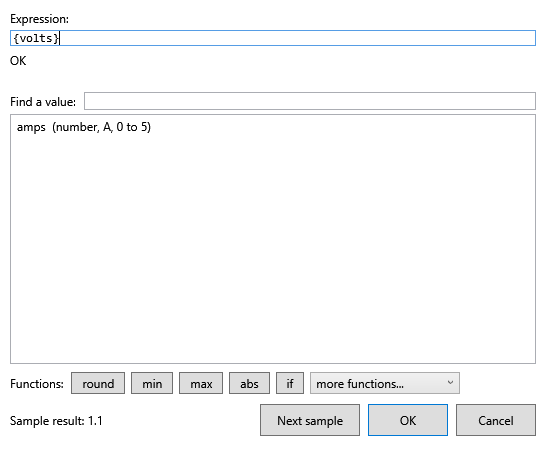
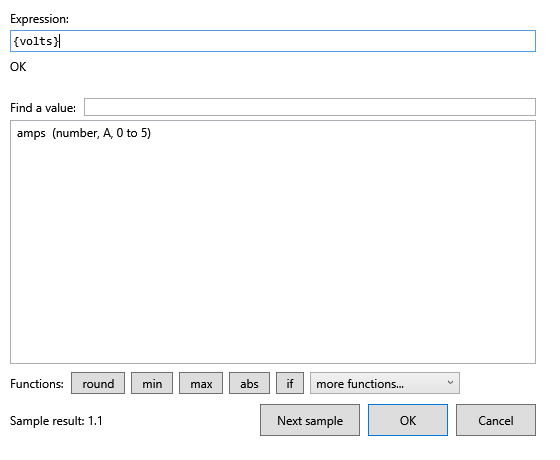
Review the expression picker layout in all modes and give its expression box a usable height

Changed region(s): [[0.0, 0.213, 0.9714, 0.3043], [0.0, 0.0609, 0.9411, 0.1522]]

diff --git a/src/Applications/OoBDev.DevTerm.Wpf/ExpressionPickerWindow.xaml b/src/Applications/OoBDev.DevTerm.Wpf/ExpressionPickerWindow.xaml
@@ -14,7 +14,7 @@
             <RowDefinition Height="Auto" />
         </Grid.RowDefinitions>
         <TextBlock x:Name="ExpressionLabel" Grid.Row="0" Text="Expression:" />
-        <TextBox x:Name="ExpressionBox" Grid.Row="1" Margin="0,4,0,0" VerticalContentAlignment="Center" FontFamily="Consolas" AcceptsReturn="False" TextChanged="ExpressionBox_TextChanged" />
+        <TextBox x:Name="ExpressionBox" Grid.Row="1" Margin="0,4,0,0" MinHeight="22" VerticalContentAlignment="Center" FontFamily="Consolas" AcceptsReturn="False" TextChanged="ExpressionBox_TextChanged" />
         <TextBlock x:Name="DiagnosticsText" Grid.Row="2" Margin="0,6,0,0" TextWrapping="Wrap" MinHeight="32" />
         <DockPanel Grid.Row="3" Margin="0,8,0,4">
             <TextBlock DockPanel.Dock="Left" Text="Find a value:" VerticalAlignment="Center" Margin="0,0,8,0" />

diff --git a/src/Applications/OoBDev.DevTerm.Wpf.Tests/UiLayoutReviewTests.cs b/src/Applications/OoBDev.DevTerm.Wpf.Tests/UiLayoutReviewTests.cs
@@ -6,6 +6,7 @@ using DevTermApp;
 using Microsoft.VisualStudio.TestTools.UnitTesting;
 using OoBDev.DevTerm.Configuration;
 using OoBDev.DevTerm.DeviceManifests;
+using OoBDev.DevTerm.DeviceManifests.Editing;
 using OoBDev.DevTerm.TestUtilities;
 using OoBDev.DevTerm.Wpf;
 using OoBDev.UiDefinitions.ViewModels;
@@ -124,6 +125,18 @@ public sealed class UiLayoutReviewTests
             },
             900,
             700);
+
+    [TestMethod]
+    [DataRow(BuiltInThemes.LightName, "round({volts} * {amps}, 1)", PickerMode.Expression)]
+    [DataRow(BuiltInThemes.DarkName, "round({volts} * {amps}, 1)", PickerMode.Expression)]
+    [DataRow(BuiltInThemes.LightName, "round({volts} * ", PickerMode.Expression)]
+    [DataRow(BuiltInThemes.DarkName, "round({volts} * ", PickerMode.Expression)]
+    [DataRow(BuiltInThemes.LightName, "round({volts} * 100, 0); {amps}", PickerMode.ExpressionList)]
+    [DataRow(BuiltInThemes.DarkName, "round({volts} * 100, 0); {amps}", PickerMode.ExpressionList)]
+    [DataRow(BuiltInThemes.LightName, "volts:Volts:#FF6600; amps", PickerMode.Channels)]
+    [DataRow(BuiltInThemes.DarkName, "volts:Volts:#FF6600; amps", PickerMode.Channels)]
+    public void ExpressionPickerWindow_Mode_HasNoLayoutProblems(string theme, string text, PickerMode mode) =>
+        Review(theme, () => new ExpressionPickerWindow(new ExpressionPickerViewModel(ExpressionPickerScreenshotTests.Paths, text, seed: 7, mode: mode)), 560, 460);
 
     [TestMethod]
     [DataRow(BuiltInThemes.LightName)]

diff --git a/src/Applications/OoBDev.DevTerm.Wpf.Tests/ExpressionPickerScreenshotTests.cs b/src/Applications/OoBDev.DevTerm.Wpf.Tests/ExpressionPickerScreenshotTests.cs
@@ -11,7 +11,7 @@ namespace OoBDev.DevTerm.Wpf.Tests;
 [TestClass]
 public sealed class ExpressionPickerScreenshotTests
 {
-    private static readonly ValuePath[] _paths =
+    internal static readonly ValuePath[] Paths =
     [
         new("volts", ValuePathType.Number, ValuePathSource.Control, "Voltage", "V", 0, 30),
         new("amps", ValuePathType.Number, ValuePathSource.Control, "Current", "A", 0, 5),
@@ -28,7 +28,7 @@ public sealed class ExpressionPickerScreenshotTests
     [DataRow("wpf-expression-picker-channels", "volts:Volts:#FF6600; amps", PickerMode.Channels, "")]
     public void Window_Mode_IsCaptured(string name, string text, PickerMode mode, string filter) =>
         WpfScreenshot.Capture(
-            () => new ExpressionPickerWindow(new ExpressionPickerViewModel(_paths, text, seed: 7, mode: mode) { Filter = filter }),
+            () => new ExpressionPickerWindow(new ExpressionPickerViewModel(Paths, text, seed: 7, mode: mode) { Filter = filter }),
             name + ".png",
             560,
             460);

diff --git a/BACKLOG.md b/BACKLOG.md
@@ -12,7 +12,7 @@ GitHub is no longer the primary repository (local bare repo `origin`), so nothin
 
 Owner: all protocols and features of dev-term must exist here. Done means what dev-term has today; its own future plans are in section 8. Status, slices and leftovers: [status.md](docs/design/DevTermParity/status.md); matrix: [README](docs/design/DevTermParity/README.md); restructure steps 0 to 6 are done.
 
-- [ ] None of the WPF windows were viewed running: capture the remaining windows with `WpfScreenshot` (done: connection editor, converter tools, stream monitor, expression pickers, routing, playback, configure device, main shell, all sessions log, manifest picker, theme seed picker, theme builder, instrument picker; every window is captured, the layout review remains) and extend the layout review (`WpfLayoutAssert` and `UiLayoutReviewTests` are migrated and cover the theme, manifest and instrument pickers, converter tools, stream monitor, shell, routing, configure device and the connection editor; playback, the manifest editor, expression picker, merged log and control panels still need cases; dev-term's `UiLayoutReviewTests` is the source) ([status.md](docs/design/DevTermParity/status.md)).
+- [ ] None of the WPF windows were viewed running: capture the remaining windows with `WpfScreenshot` (done: connection editor, converter tools, stream monitor, expression pickers, routing, playback, configure device, main shell, all sessions log, manifest picker, theme seed picker, theme builder, instrument picker; every window is captured, the layout review remains) and extend the layout review (`WpfLayoutAssert` and `UiLayoutReviewTests` are migrated and cover the theme, manifest and instrument pickers, converter tools, stream monitor, shell, routing, configure device and the connection editor; playback, the manifest editor, merged log and control panels still need cases; dev-term's `UiLayoutReviewTests` is the source) ([status.md](docs/design/DevTermParity/status.md)).
 - [ ] **DevTerm docs into living documents** (owner, 2026-10-30): fold the imported design, spec and device folders in `docs/applications/devterm/` into the living documents feature by feature, move reusable designs (transports, presenters, UI definitions, manifests, session logging) to `docs/design/<Feature>/`, then delete each folder per [the map](docs/migration/devterm-docs-map.md); point the generated Tui guide output at `docs/applications/devterm/user-guide`.
 - [ ] Port dev-term's coding-standards tests (device docs, one test category per test; snapshots in `docs/applications/devterm/source/`) and wire its containers (`containers/devterm`: mosquitto, ser2net, loopback-device, rabbitmq TLS and STOMP) into `containers/testing` with the `add-integration-service` skill.
 - [ ] **Surroundings review of the other migrated projects** (owner, 2026-10-30; dev-term is done, see [the review](docs/migration/devterm-surroundings-review-2026-10-30.md)): repeat for BinaryDataDecoders and each harvest project: guide, `.claude` configuration, docs, open questions, TODO and BACKLOG, UIs, tests, scripts and plans, each migrated or rejected with a reason; application docs go to `docs/applications/{app-name}/`.

diff --git a/TODO.md b/TODO.md
@@ -8,7 +8,7 @@ Keep this file short (about 15 one-line items). When an item starts, move it her
 
 ## In progress
 
-- [ ] **DevTerm parity, WPF shell**: all five slices are built; left is viewing the windows running (`WpfScreenshot` is migrated and the connection editor, converter tools, stream monitor, expression pickers, routing, playback, configure device, main shell, all sessions log, manifest picker, theme windows and instrument picker captured; the layout review covers most dialogs and the shell; playback, manifest editor, expression picker, merged log and control panels are left); detail in [status.md](docs/design/DevTermParity/status.md).
+- [ ] **DevTerm parity, WPF shell**: all five slices are built; left is viewing the windows running (`WpfScreenshot` is migrated and the connection editor, converter tools, stream monitor, expression pickers, routing, playback, configure device, main shell, all sessions log, manifest picker, theme windows and instrument picker captured; the layout review covers most dialogs and the shell; playback, manifest editor, merged log and control panels are left); detail in [status.md](docs/design/DevTermParity/status.md).
 
 ## Next
 
